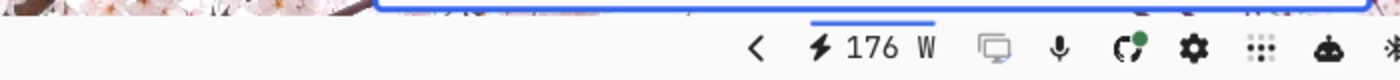
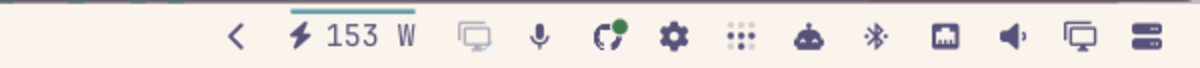
Refresh README screenshots and show the settings pane
Adds a shot of the config pane so it is obvious the plugin is configurable from
the panel itself rather than from a file somebody has to find. The panel and
bar shots are recaptured from the current UI, which no longer carries the
accuracy footer.

Every image appears exactly once and is displayed below its pixel width, so
nothing is upscaled or stretched.

diff --git a/README.md b/README.md
@@ -149,11 +149,24 @@ answering (it will never show you a stale number styled as a live one).
 | Coverage | Any bucket that was not fully sampled is marked, so a day the machine was off for 18 hours never reads as a low-consumption day |
 | Settings | A gear in the top-right corner opens a config pane: price, currency, the estimate constants, and the sampling options, each with its units and what it does |
 
+<p align="center">
+  <img src="docs/settings.png" alt="The settings pane: price per kWh, a currency picker, and the estimate constants" width="380">
+</p>
+
+**Everything is configurable from the panel itself** — the gear in the panel's
+top-right corner opens this. Price per kWh, currency, the two
+estimate constants, and the sampling options, each with its units and a line
+saying what it does. No config file to find, no terminal needed.
+
+The settings are grouped by consequence rather than by type, because that is
+the distinction that matters: the first group **re-prices every stored day the
+moment you save it**, while the second only changes future sampling and says so.
+
 The main view carries numbers and nothing else — no disclaimer paragraph, no
 tariff line. The explanation of *why* the total is an estimate lives in the
-settings pane, next to the two constants that make it one, which is where
-someone reading it can act on it. What stays on the front is the live
-`81% measured` figure, because that is a measurement, not prose.
+settings pane, right next to the two constants that make it one, which is where
+someone reading it can actually act on it. What stays on the front is the live
+`76% measured` figure, because that is a measurement, not prose.
 
 The pane is also reachable without the mouse, so you can bind it:
 
